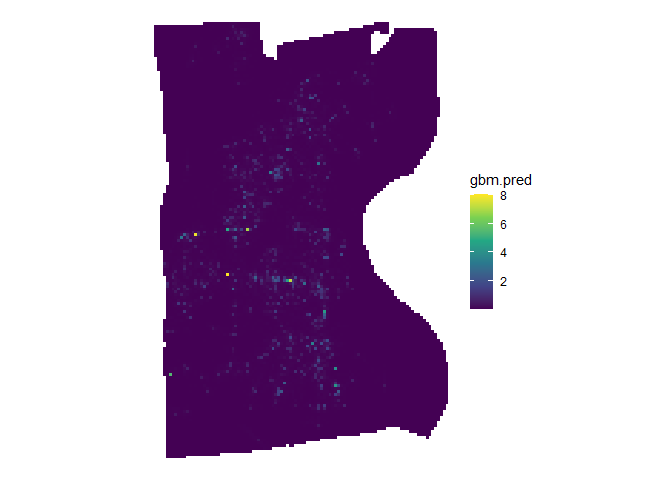
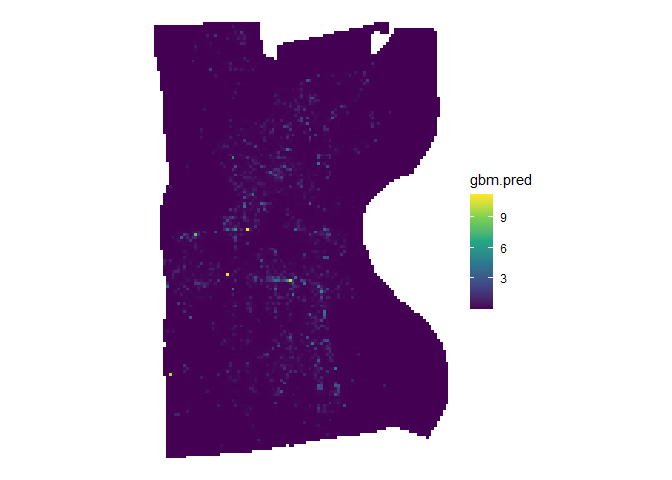
Updated readme file

diff --git a/README.md b/README.md
@@ -25,6 +25,7 @@ features are planned for the future, including:
 -   GoogleMaps & OpenStreet Maps integration
 -   Grid count and polygon-level predictors
 -   Shapely value decomposition
+-   and more…!
 
 ## Installation
 
@@ -68,10 +69,10 @@ models using the parameters listed
 
 This is a minimum working example using the data provided in the
 `quickGrid` package. `quickGrid` is packaged with an example dataset
-containing robberies in Hartford CT for 2018 and 2019. A number of
+containing robberies in Hartford CT for 2017 though 2019. A number of
 spatial predictors are packed in as well, including the locations of
-bars, liquor stores, gas stations, pharmacies, and dollar stores
-(labeled ‘retail’). For simplicity, these are packaged as a list of `sf`
+bars, night clubs, liquor stores, gas stations, pharmacies, and
+restaurants. For simplicity, these are packaged as a list of `sf`
 objects that can be easily plugged into our model prep function.
 
 ### Setting up your data
@@ -84,18 +85,17 @@ library(quickGrid)
 data("hartford_data")
 
 names(hartford_data)
-#> [1] "hartford" "robbery"  "bar"      "liquor"   "gas"      "pharmacy" "retail"
+#> [1] "hartford"   "robbery"    "bar"        "nightclub"  "liquor"    
+#> [6] "gas"        "pharmacy"   "restaurant"
  
 # Create an object to hold model data
 # using 'prep_data' function
 
-model_data <-
-  prep_data(
-    outcome = hartford_data[['robbery']],
-    pred_var = hartford_data[c("bar", "liquor", "gas", "pharmacy", "retail")],
-    region = hartford_data[['hartford']],
-    gridsize = 200,
-    measure = 'distance')
+model_data <- prep_data(outcome = hartford_data$robbery,
+                       pred_var = hartford_data[c('bar','nightclub','liquor','gas','pharmacy','restaurant')],
+                       region = hartford_data$hartford,
+                       gridsize = 200,
+                       measure = 'distance')
 #> [1] "Calculating distances..."
 ```
 
@@ -112,20 +112,20 @@ particular, has a few important fields:
 ``` r
 # Top 6 rows of model dataframe
 head(model_data$gbm_dataframe)
-#>         x        y n distance.bar distance.liquor distance.gas
-#> 1 1012220 854890.8 0     11952.96        2758.104     10486.70
-#> 2 1012420 854890.8 0     11761.49        2563.484     10451.25
-#> 3 1012620 854890.8 0     11570.31        2369.759     10419.51
-#> 4 1012820 854890.8 0     11379.43        2177.169     10391.53
-#> 5 1013020 854890.8 0     11188.87        1986.044     10367.33
-#> 6 1013220 854890.8 0     10998.65        1796.853     10346.94
-#>   distance.pharmacy distance.retail grid_id
-#> 1          3965.104        2953.137      18
-#> 2          3841.218        2776.535      19
-#> 3          3723.957        2603.320      20
-#> 4          3613.967        2434.215      21
-#> 5          3511.932        2270.139      22
-#> 6          3418.562        2112.263      23
+#>         x        y n distance.bar distance.nightclub distance.liquor
+#> 1 1012220 854890.8 0    10130.460           11626.01        2758.104
+#> 2 1012420 854890.8 0    10064.503           11479.73        2563.484
+#> 3 1012620 854890.8 0    10002.112           11335.10        2369.759
+#> 4 1012820 854890.8 0     9943.352           11192.17        2177.169
+#> 5 1013020 854890.8 0     9888.289           11051.01        1986.044
+#> 6 1013220 854890.8 0     9836.984           10911.70        1796.853
+#>   distance.gas distance.pharmacy distance.restaurant grid_id
+#> 1     3042.943          3965.104            2577.497      18
+#> 2     2862.412          3841.218            2382.150      19
+#> 3     2684.642          3723.957            2187.644      20
+#> 4     2510.220          3613.967            1994.225      21
+#> 5     2339.894          3511.932            1802.244      22
+#> 6     2174.627          3418.562            1612.213      23
 ```
 
 Here we have the distances for each of the 5 predictor features for each
@@ -173,25 +173,32 @@ hot-spots for crime prevention.
 
 ``` r
 head(gbm_fit$model_dataframe)
-#> Simple feature collection with 6 features and 11 fields
+#> Simple feature collection with 6 features and 12 fields
 #> Geometry type: POLYGON
 #> Dimension:     XY
 #> Bounding box:  xmin: 1012120 ymin: 854790.8 xmax: 1013320 ymax: 854990.8
 #> Projected CRS: NAD83(NSRS2007) / Connecticut (ftUS)
-#>    grid_id layer       x        y n distance.bar distance.liquor distance.gas
-#> 18      18  0.00 1012220 854890.8 0     11952.96        2758.104     10486.70
-#> 19      19  0.00 1012420 854890.8 0     11761.49        2563.484     10451.25
-#> 20      20  0.02 1012620 854890.8 0     11570.31        2369.759     10419.51
-#> 21      21  0.10 1012820 854890.8 0     11379.43        2177.169     10391.53
-#> 22      22  0.10 1013020 854890.8 0     11188.87        1986.044     10367.33
-#> 23      23  0.10 1013220 854890.8 0     10998.65        1796.853     10346.94
-#>    distance.pharmacy distance.retail    gbm.pred                       geometry
-#> 18          3965.104        2953.137 0.001707109 POLYGON ((1012120 854990.8,...
-#> 19          3841.218        2776.535 0.001908820 POLYGON ((1012320 854990.8,...
-#> 20          3723.957        2603.320 0.004160899 POLYGON ((1012520 854990.8,...
-#> 21          3613.967        2434.215 0.001865468 POLYGON ((1012720 854990.8,...
-#> 22          3511.932        2270.139 0.005470702 POLYGON ((1012920 854990.8,...
-#> 23          3418.562        2112.263 0.004215957 POLYGON ((1013120 854990.8,...
+#>    grid_id layer       x        y n distance.bar distance.nightclub
+#> 18      18  0.00 1012220 854890.8 0    10130.460           11626.01
+#> 19      19  0.00 1012420 854890.8 0    10064.503           11479.73
+#> 20      20  0.02 1012620 854890.8 0    10002.112           11335.10
+#> 21      21  0.10 1012820 854890.8 0     9943.352           11192.17
+#> 22      22  0.10 1013020 854890.8 0     9888.289           11051.01
+#> 23      23  0.10 1013220 854890.8 0     9836.984           10911.70
+#>    distance.liquor distance.gas distance.pharmacy distance.restaurant
+#> 18        2758.104     3042.943          3965.104            2577.497
+#> 19        2563.484     2862.412          3841.218            2382.150
+#> 20        2369.759     2684.642          3723.957            2187.644
+#> 21        2177.169     2510.220          3613.967            1994.225
+#> 22        1986.044     2339.894          3511.932            1802.244
+#> 23        1796.853     2174.627          3418.562            1612.213
+#>       gbm.pred                       geometry
+#> 18 0.001900735 POLYGON ((1012120 854990.8,...
+#> 19 0.003929342 POLYGON ((1012320 854990.8,...
+#> 20 0.001821776 POLYGON ((1012520 854990.8,...
+#> 21 0.003597398 POLYGON ((1012720 854990.8,...
+#> 22 0.012617457 POLYGON ((1012920 854990.8,...
+#> 23 0.007686861 POLYGON ((1013120 854990.8,...
 ```
 
 ## Plotting Functions
